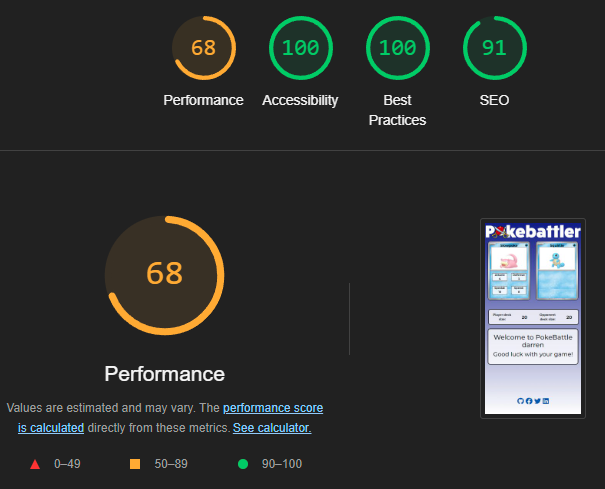
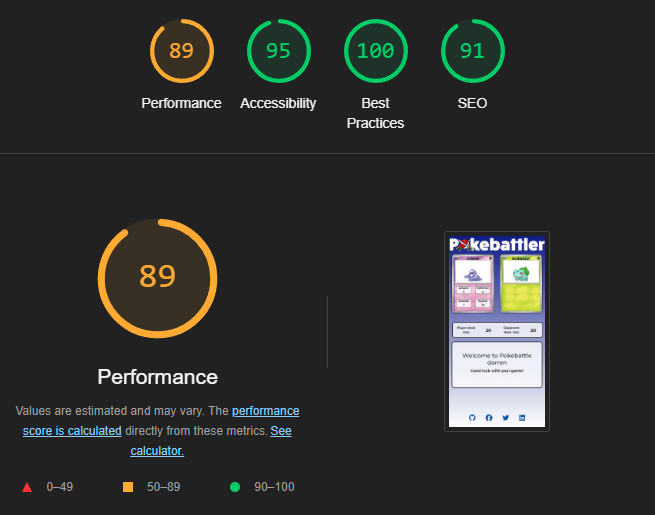
added test data to readme

diff --git a/assets/css/style.css b/assets/css/style.css
@@ -14,8 +14,6 @@ body {
     min-height: 100vh;
 }
 
-div#preload { display: none; }
-
 .wrapper {
     display: flex;
     flex-direction: column;

diff --git a/README.md b/README.md
@@ -248,7 +248,7 @@ Some errors were present when checking the game.html. This is due to falling bac
 [WAVE](https://wave.webaim.org) was used to check to ensure the site conforms to accessibility standards. 
 
 Issue #1: All pages initially showed an issue where wave testing was detecting the footer links as a possible heading. 
-Reason: Footer links were originally created withina  single P element with a large font size. Causing Wave to mistake them for a header.
+Reason: Footer links were originally created within a single P element with a large font size. Causing Wave to mistake them for a header.
 Fix: Moved footer elements into an unordered list and amended CSS to ensure these were displayed horizontally. 
 
 Issue #2: Headings were not conforming to standards
@@ -277,22 +277,304 @@ Fix: Added a key event using the enter key, so pressing this could action the se
 </details>
 
 
-## User Testing.
+## User Testing
+
+I reached out to several friends to help assess the colour choices, layouts, usability and readability of the site. 
+Comments included that the colours were calming and that after some adjustments had been made to the messages displayed between turns, it was easier to read and understand what was happening. 
+
+Testing and discussions with my mentor also highlighted a few issues with the Javascript which would allow players to queue multiple inputs to the game logic, leading to the game seemingly playing on its own with the player having no idea what was happening. 
+Effectively, the stats would allow multiple clicks, which the game queued and processed as though the user had been interacting with the game in the expected manner, where they take a turn and wait for events to occur. This was resolved by adding a new function
+that was called at the end of each turn, where the game would check for a boolean being true or not when true this would set CSS to prevent player input as well as adjusting the tabIndex to -1 to prevent keyboard interactivity. 
 
 ## Performance
 
+Loading times and performance was tested using Googles Lighthouse tool within Chromes Developer Tools. 
+
+Without trying to optimise, both the index page and 4040 page were scoring above 90 in all areas, with some scores reaching 100. 
+However the game page was a different story. Scoring as low as 68 over several tests for its performance. The main issue being highlighted by Lighthouse was the card images. 
+On investigation these were overly large images - being 745 x 1040px, each clocking in around 400kb. Since at its largest the game page limits these images to 548 x 765px, i resized the images to match this and also lowered the image quality slightly which dropped the file size to 20kb per card. 
+This pushed the lowest score to a much more acceptable 89/100. 
+
+
+This page relies heavily on Javascript for content rendering which I suspect may be the main culprit here.
+Since the card images are also all called from the javascript file this can add delays and img.card-image element was highlighted as the main issue.
+I had attempted to resolve this using preloads and other methods to try to locally cache the images. However the score did not improve. 
+
+<details>
+<summary>Index Page</summary>
+<img src="docs/index-lighthouse.png">
+</details>
+
+<details>
+<summary>Game Page</summary>
+<img src="docs/game-lighthouse.png">
+</details>
+
+<details>
+<summary>404 Page</summary>
+<img src="docs/404-lighthouse.png">
+</details>
+
 ## Device and Browser Testing
+
+- WIndows Desktop PC
+- Apple M1 MacBook Pro
+- Apple M2 MacBook Pro Max
+- Apple iPad Pro
+- iPhone 15 Pro Max
+- Samsung Galaxy S24
+
+In Addition, the following browsers have all been used in testing:
+
+- Chrome
+- Safari
+- Firefox
+- Edge
 
 ## Responsiveness
 
+Responsiveness testing was performed using Chrome's Developer Tools.
+
+<details>
+<summary>Galaxy Pixel Fold</summary>
+
+| Device and Resolution | Page          | Result               |
+| --------------------- | ------------- | -------------------- |
+| Galaxy Pixel Fold     | Home Page     | Displays as Expected |
+| 280 x 653             | Club Page     | Displays as Expected |
+|                       | Contact Page  | Displays as Expected |
+|                       | Response Page | Displays as Expected |
+|                       | 404 Page      | Displays as Expected |
+|                       | Nav Bar       | Displays as Expected |
+|                       | Carousel      | Displays as Expected |
+|                       | Modal         | Displays as Expected |
+
+</details>
+
+<details>
+<summary>iPhone SE</summary>
+
+| Device and Resolution | Page          | Result               |
+| --------------------- | ------------- | -------------------- |
+| iPhone SE             | Home Page     | Displays as Expected |
+| 375 x 667             | Club Page     | Displays as Expected |
+|                       | Contact Page  | Displays as Expected |
+|                       | Response Page | Displays as Expected |
+|                       | 404 Page      | Displays as Expected |
+|                       | Nav Bar       | Displays as Expected |
+|                       | Carousel      | Displays as Expected |
+|                       | Modal         | Displays as Expected |
+
+</details>
+
+<details>
+<summary>iPhone 12 Pro</summary>
+
+| Device and Resolution | Page          | Result               |
+| --------------------- | ------------- | -------------------- |
+| iPhone 12 Pro         | Home Page     | Displays as Expected |
+| 390 x 844             | Club Page     | Displays as Expected |
+|                       | Contact Page  | Displays as Expected |
+|                       | Response Page | Displays as Expected |
+|                       | 404 Page      | Displays as Expected |
+|                       | Nav Bar       | Displays as Expected |
+|                       | Carousel      | Displays as Expected |
+|                       | Modal         | Displays as Expected |
+
+</details>
+
+<details>
+<summary>Samsung Galaxy A51/71</summary>
+
+| Device and Resolution | Page          | Result               |
+| --------------------- | ------------- | -------------------- |
+| Samsung Galaxy A51/71 | Home Page     | Displays as Expected |
+| 412 x 914             | Club Page     | Displays as Expected |
+|                       | Contact Page  | Displays as Expected |
+|                       | Response Page | Displays as Expected |
+|                       | 404 Page      | Displays as Expected |
+|                       | Nav Bar       | Displays as Expected |
+|                       | Carousel      | Displays as Expected |
+|                       | Modal         | Displays as Expected |
+
+</details>
+
+<details>
+<summary>iPhone 14 Pro Max</summary>
+
+| Device and Resolution | Page          | Result               |
+| --------------------- | ------------- | -------------------- |
+| iPhone 14 Pro Max     | Home Page     | Displays as Expected |
+| 430 x 932             | Club Page     | Displays as Expected |
+|                       | Contact Page  | Displays as Expected |
+|                       | Response Page | Displays as Expected |
+|                       | 404 Page      | Displays as Expected |
+|                       | Nav Bar       | Displays as Expected |
+|                       | Carousel      | Displays as Expected |
+|                       | Modal         | Displays as Expected |
+
+</details>
+
+<details>
+<summary>Surface Pro Duo</summary>
+
+| Device and Resolution | Page          | Result               |
+| --------------------- | ------------- | -------------------- |
+| Surface Pro Duo       | Home Page     | Displays as Expected |
+| 540 x 720             | Club Page     | Displays as Expected |
+|                       | Contact Page  | Displays as Expected |
+|                       | Response Page | Displays as Expected |
+|                       | 404 Page      | Displays as Expected |
+|                       | Nav Bar       | Displays as Expected |
+|                       | Carousel      | Displays as Expected |
+|                       | Modal         | Displays as Expected |
+
+</details>
+
+<details>
+<summary>iPad Mini</summary>
+
+| Device and Resolution | Page          | Result               |
+| --------------------- | ------------- | -------------------- |
+| iPad Mini             | Home Page     | Displays as Expected |
+| 768 x 1024            | Club Page     | Displays as Expected |
+|                       | Contact Page  | Displays as Expected |
+|                       | Response Page | Displays as Expected |
+|                       | 404 Page      | Displays as Expected |
+|                       | Nav Bar       | Displays as Expected |
+|                       | Carousel      | Displays as Expected |
+|                       | Modal         | Displays as Expected |
+
+</details>
+
+<details>
+<summary>ASUS ZenBook Fold</summary>
+
+| Device and Resolution | Page          | Result               |
+| --------------------- | ------------- | -------------------- |
+| ASUS ZenBook Fold     | Home Page     | Displays as Expected |
+| 853 x 1280            | Club Page     | Displays as Expected |
+|                       | Contact Page  | Displays as Expected |
+|                       | Response Page | Displays as Expected |
+|                       | 404 Page      | Displays as Expected |
+|                       | Nav Bar       | Displays as Expected |
+|                       | Carousel      | Displays as Expected |
+|                       | Modal         | Displays as Expected |
+
+</details>
+
+<details>
+<summary>Surface Pro 7</summary>
+
+| Device and Resolution | Page          | Result               |
+| --------------------- | ------------- | -------------------- |
+| Surface Pro 7         | Home Page     | Displays as Expected |
+| 912 x 1368            | Club Page     | Displays as Expected |
+|                       | Contact Page  | Displays as Expected |
+|                       | Response Page | Displays as Expected |
+|                       | 404 Page      | Displays as Expected |
+|                       | Nav Bar       | Displays as Expected |
+|                       | Carousel      | Displays as Expected |
+|                       | Modal         | Displays as Expected |
+
+</details>
+
+<details>
+<summary>iPad Pro</summary>
+
+| Device and Resolution | Page          | Result               |
+| --------------------- | ------------- | -------------------- |
+| iPad Pro              | Home Page     | Displays as Expected |
+| 1024 x 1366           | Club Page     | Displays as Expected |
+|                       | Contact Page  | Displays as Expected |
+|                       | Response Page | Displays as Expected |
+|                       | 404 Page      | Displays as Expected |
+|                       | Nav Bar       | Displays as Expected |
+|                       | Carousel      | Displays as Expected |
+|                       | Modal         | Displays as Expected |
+
+</details>
+
+<details>
+<summary>Nest Hub Max</summary>
+
+| Device and Resolution | Page          | Result               |
+| --------------------- | ------------- | -------------------- |
+| Nest Hub Max          | Home Page     | Displays as Expected |
+| 1280 x 800            | Club Page     | Displays as Expected |
+|                       | Contact Page  | Displays as Expected |
+|                       | Response Page | Displays as Expected |
+|                       | 404 Page      | Displays as Expected |
+|                       | Nav Bar       | Displays as Expected |
+|                       | Carousel      | Displays as Expected |
+|                       | Modal         | Displays as Expected |
+
+</details>
+
 # Version control and Deployment
+
+
+The site's code is all stored on GitHub, which is used for version control and is currently hosting a deployed copy of the site using Github Pages. 
 
 ## Repo Creation
 
+A new repo was created directly on the GitHub website using the below steps: 
+
+1: Navigate to github.com.
+2: login to my account.
+3: click the repositories tab on the top of the website. 
+4: Click the green 'new' button 
+5: On the newly loaded page, in the text field enter a name for the repo, in this case, nlaw was entered.
+6: An optional description can be added in the text box below this. In this instance, this was left blank.
+7: Select the visibility as either public or private. Since this needs to be visible for assessment and marking, the default 'Public' option was left checked.
+9: Click the Create repository button and wait for a few moments, once this has been cloned into your account the page will reload and you'll be presented with the code space for the repo.
+
+
 ## Cloning locally
 
-## Deployment
+Since I chose to work in Visual Studio Code, the contents of the newly created repo needed to be transferred to my computer. To do this I followed the below steps:
 
+
+1. In VSCode, I opened the Terminal window, by visiting the 'Terminal' menu in VSCode and selecting 'New Terminal'
+2. Within this terminal window, I made sure I was in the correct folder for where I wanted to store my work, if this was not correct I would have used the bash command cd to navigate to the correct folder. In this case, ~/Code, which is a folder called 'Code' in my logged-in user Home Folder.
+3. In a web browser, I navigated to the GitHub repository for the project and clicked on the green '<> Code' button, this presented me with several options for cloning. I selected the 'HTTPS' option and copied the URL in the text field.
+4. In Visual Studio Code’s terminal, I typed git clone https://github.com/monkphin/nlaw.git and pressed enter, which cloned the repo to my local machine as shown by the below output.
+ 
+    ```
+    darren@localhost MINGW64 ~/Code (main)
+    $ git clone https://github.com/monkphin/PokeBattle.git
+    Cloning into 'PokeBattle'...
+    remote: Enumerating objects: 12, done.
+    remote: Counting objects: 100% (12/12), done.
+    remote: Compressing objects: 100% (12/12), done.
+    remote: Total 12 (delta 0), reused 8 (delta 0), pack-reused 0
+    Receiving objects: 100% (12/12), 5.68 KiB | 830.00 KiB/s, done.
+    ```
+
+5. Once this had finished cloning I used cd to navigate into the relevant folder - in this case, cd PokeBattle
+   
+    ```
+    darren@localhost MINGW64 ~/Code (main)
+    $ cd PokeBattle/
+    darren@localhost MINGW64 ~/Code/PokeBattle (main)
+    ```
+6. I am now able to work on the project on my local machine.
+
+I used the ability to clone locally to allow me to work on several devices over the course of the creation of the website and its readme file., including using personal development time while at work or using my work provided machine while staying in hotels for office visits. As such the repo will show my work account having committed some changes to this project also. 
+
+## Deployment
+As mentioned the site is currently deployed via GitHub Pages.
+To deploy the site the following steps were used:
+
+
+1. Navigate to the specific GitHub Repo for the site - in this case: https://github.com/monkphin/PokeBattle/
+2. Click settings in the menu at the top of the project.
+3. On the left-hand menu of the settings page, click on the Pages link.
+4. Under the 'Build and Deploy heading click the drop-down under 'Branch' and select which branch to deploy from. In this case, it was 'main'.  
+5. Check to ensure the correct site root is selected in the drop-down next to the branch drop-down selector that is now visible. In this case, '/(root)'.
+6. Click 'save'.
+7. Wait a moment for the web page to reload, at which point you will see a notice at the top of the page stating 'GitHub Pages source saved'
+8. Once the page has reloaded, you should see a message at the top stating 'Your site is live at https://monkphin.github.io/PokeBattle/' If this is not visible, refresh the page and it should now be visible.
 
 # Credits 
 PokeBattler Logo taken from https://www.pokebattler.com/
